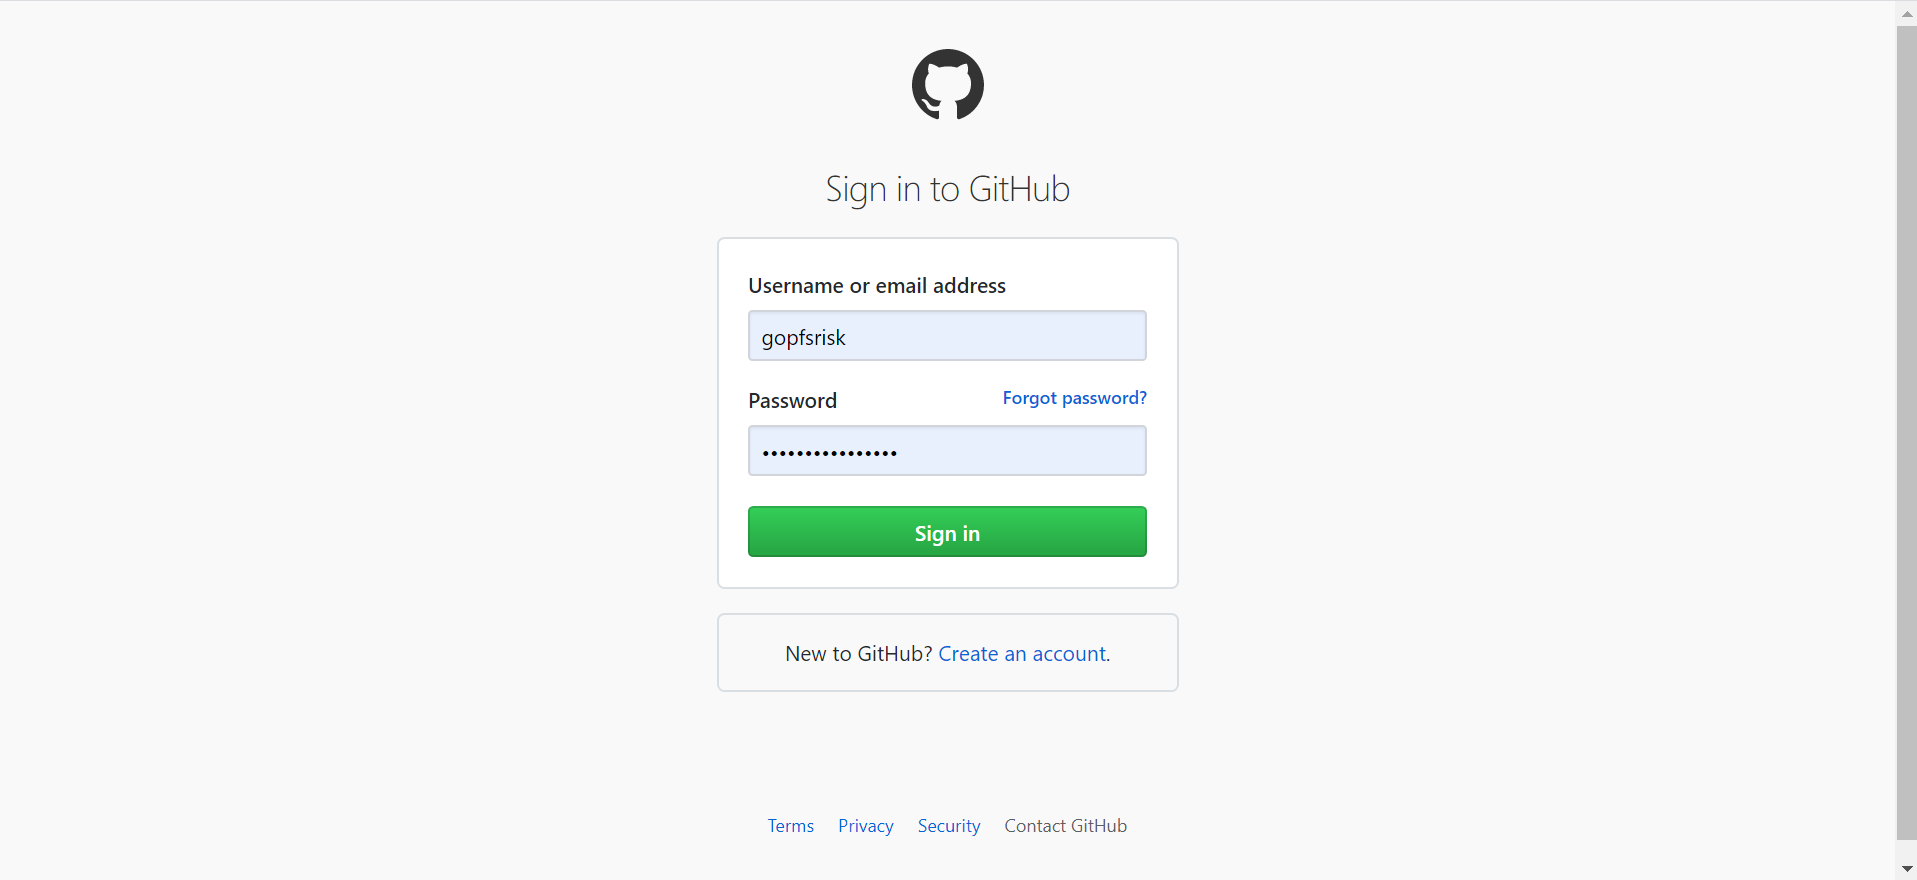
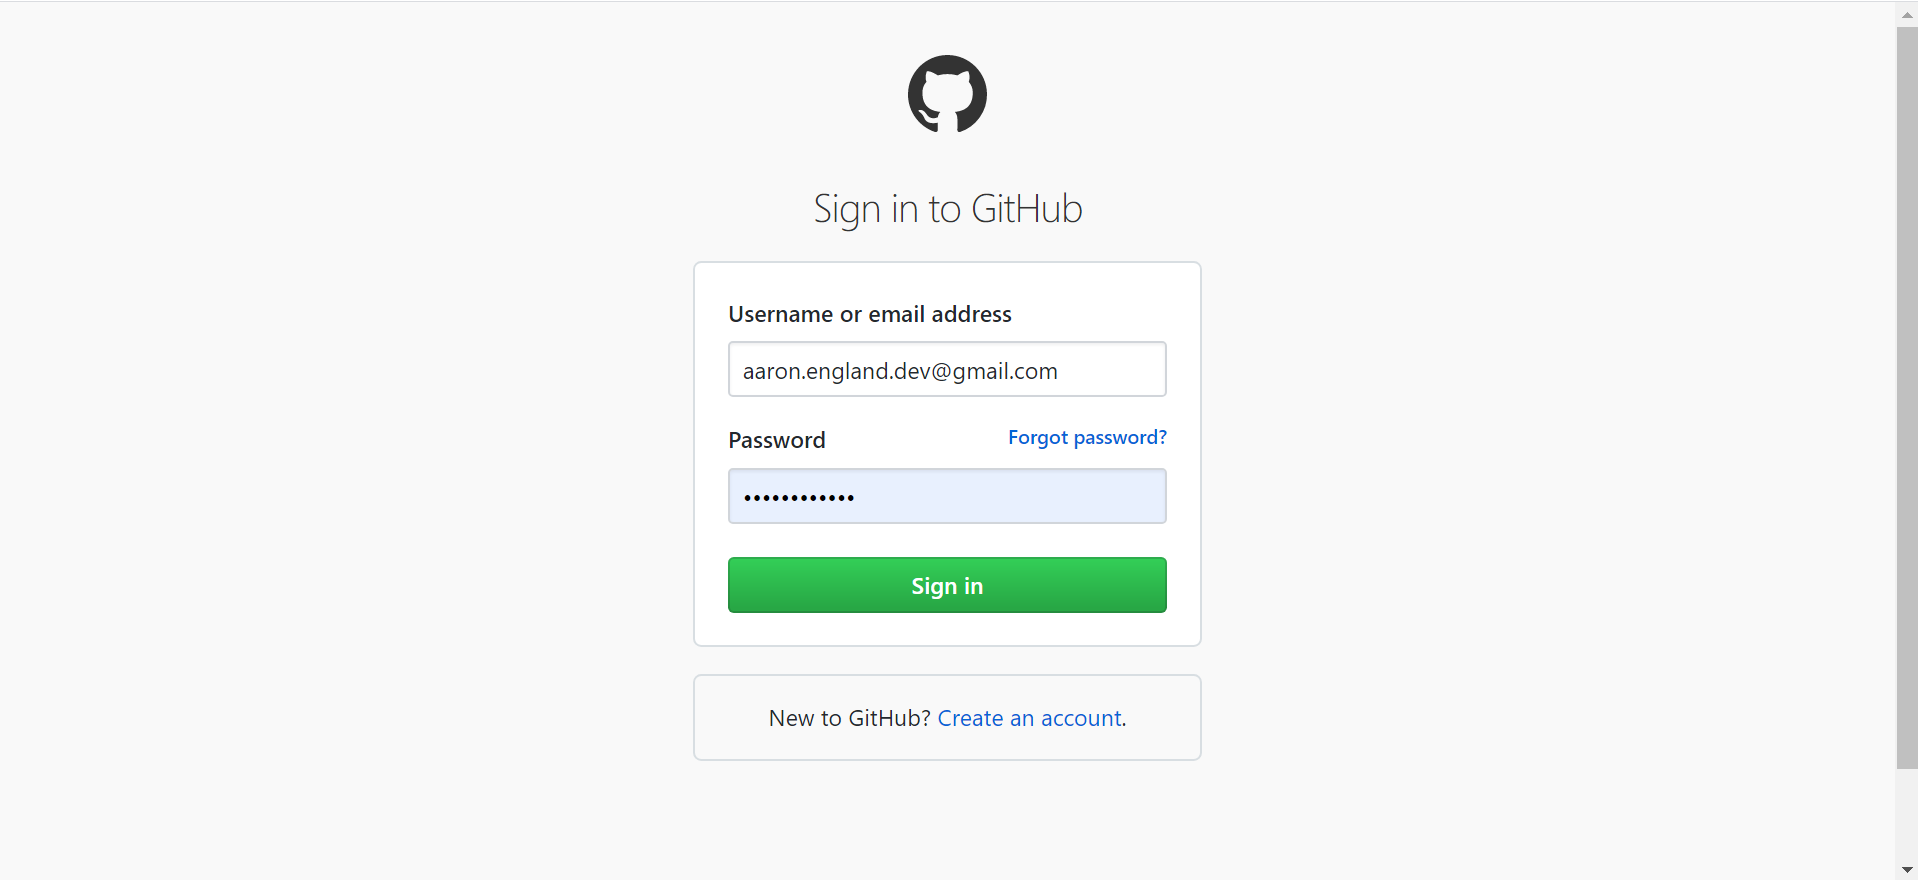
edited docs and readme

diff --git a/doc/getting_started.md b/doc/getting_started.md
@@ -8,7 +8,7 @@
 
 #
 
-## How to use GitHub
+## How to use GitHub Teams
 
 ### [What is GitHub?](https://techcrunch.com/2012/07/14/what-exactly-is-github-anyway/)
 
@@ -22,15 +22,17 @@ GitHub is perfect for data analytics and data science for the same reasons it is
 
 ---
 
-## Getting started (Prerequisite - [Install Git](https://git-scm.com/download/win)):
+## Getting started with Teams (Prerequisites - [Install Git](https://git-scm.com/download/win), create personal account, and request access to *gopfsrisk* organization):
 
-### Navigate to the [GitHub home page](https://github.com/) and click *Sign in*.
+### Navigate to the [GitHub home page](https://github.com/) and click *Sign in* to access your personal account.
 
 ![GitHub Home Page](../img/1_github_home.PNG)
 
-### Log-in to the ```gopfsrisk``` GitHub account.
+### Log-in to your personal GitHub account.
 
 ![Sign-in Page](../img/2_sign_in.PNG)
+
+### From your profile, find the *Organizations* area and click on the Utah Jazz logo to access the *gopfsrisk* organization.
 
 ### Create a new repository by clicking on the *New* button.
 
@@ -58,12 +60,12 @@ GitHub is perfect for data analytics and data science for the same reasons it is
 
 ---
 
-### Working with private repositories:
+### Working with private repositories in teams:
 
-To clone, change, and push a **private** repository via SSH (from the terminal):
+To clone, change, and push a **private** repository to teams (from the terminal):
 
 1. Clone a repository:
-* ```git clone https://gopfsrisk:<insert_password_here>@github.com/gopfsrisk/<insert_repository_name_here>.git ``` (*Note*: do not include the "<" and ">" symbols)
+* ```git clone https://<insert_username_here>:<insert_password_here>@github.com/gopfsrisk/<insert_repository_name_here>.git ``` (*Note*: do not include the "<" and ">" symbols)
 
 **Important**: entering credentials is only required on the **first** clone of a private repository. Subsequent clones and pushes should not require credentials. Thus they will act like a public repository (see below).
 
@@ -73,14 +75,14 @@ To clone, change, and push a **private** repository via SSH (from the terminal):
 * ```git init```
 * ```git add .```
 * ```git commit -m "Insert short note here."```
-* ```git remote add origin https://github.com/gopfsrisk/<insert_repo_name_here>.git```
+* ```git remote add origin https://github.com/gopfsrisk/<insert_repo_name_here>.git``` (*Note*: this step may not be necessary)
 * ```git push origin master```
 
 ---
 
-### Working with public repositories:
+### Working with public repositories in teams:
 
-To clone, change, and push a **public** repository via SSH (from the terminal):
+To clone, change, and push a **public** repository in teams (from the terminal):
 
 1. Clone a repository:
 * ```git clone https://github.com/gopfsrisk/<insert_repo_name_here>``` (*Note*: do not include the "<" and ">" symbols)
@@ -91,7 +93,7 @@ To clone, change, and push a **public** repository via SSH (from the terminal):
 * ```git init```
 * ```git add .```
 * ```git commit -m "Insert short note here."```
-* ```git remote add origin https://github.com/gopfsrisk/<insert_repo_name_here>```
+* ```git remote add origin https://github.com/gopfsrisk/<insert_repo_name_here>``` (*Note*: this step may not be necessary)
 * ```git push origin master```
 
 
